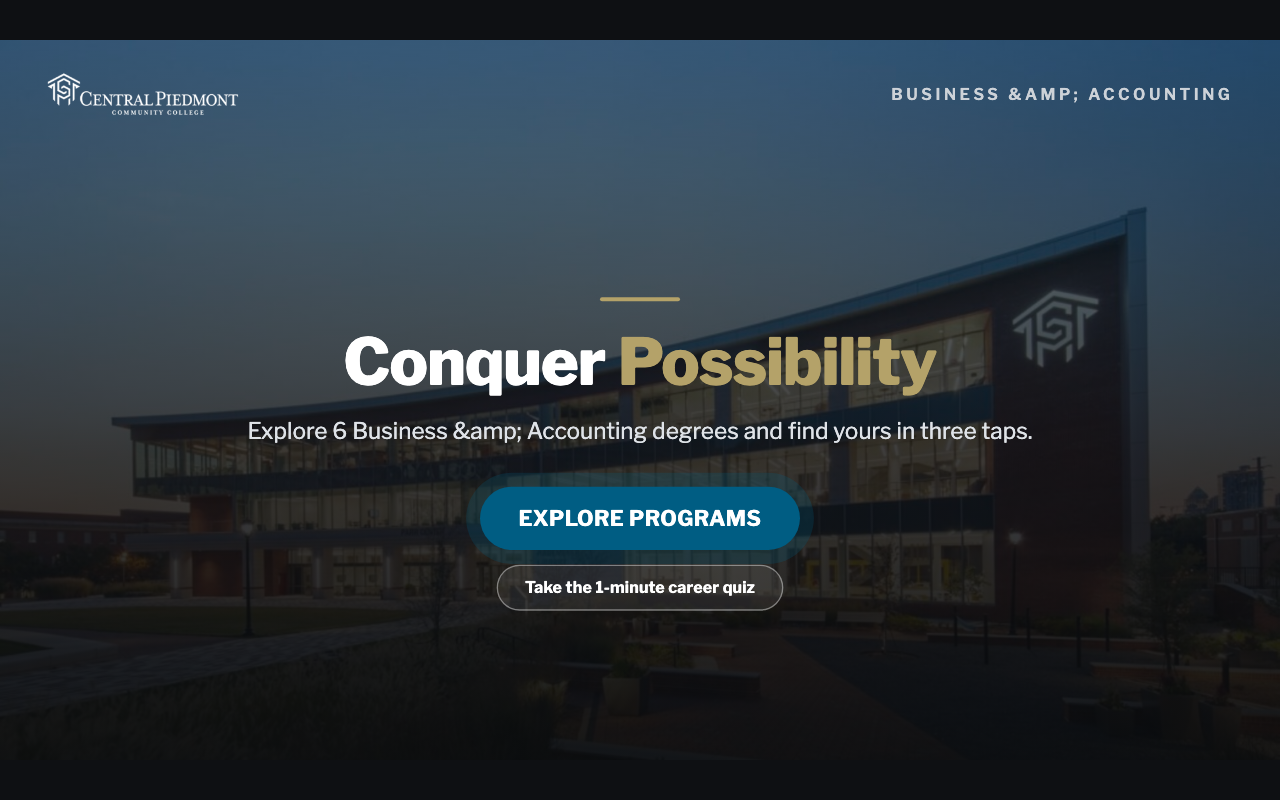
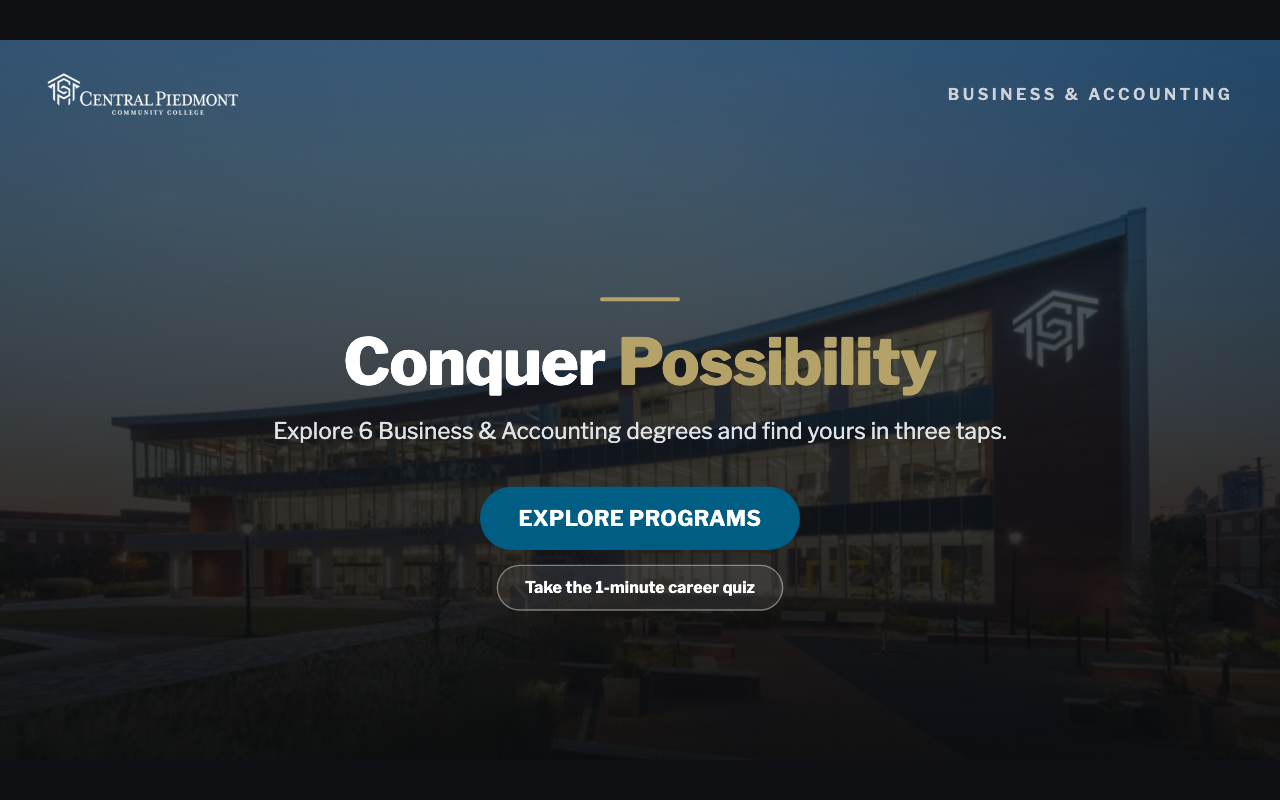
fix(business): plain-text ampersand in esc'd copy fields (no double-escape)
Claude-Session: https://claude.ai/code/session_01WZuUjH1Hc8JZ7gqUSFoCV1

Changed region(s): [[0.1875, 0.5312, 0.8125, 0.5625], [0.6875, 0.0938, 0.8438, 0.125]]

diff --git a/tracks/business/track.config.js b/tracks/business/track.config.js
@@ -11,8 +11,8 @@ export default {
   theme: { /* track colors are supplied by world entries + styles.css vars; reserved for future overrides */ },
   features: { worldTilePhotos: false, admissions: false, specializations: false },
   copy: {
-    topbarLabel: 'Business &amp; Accounting',
-    attractSub: 'Explore 6 Business &amp; Accounting degrees and find yours in three taps.',
+    topbarLabel: 'Business & Accounting',
+    attractSub: 'Explore 6 Business & Accounting degrees and find yours in three taps.',
     infoButton: 'Sign up for an information session',
     ceHeading: 'Certifications &amp; Short Courses',
     resultEyebrow: 'YOUR BUSINESS MATCH',